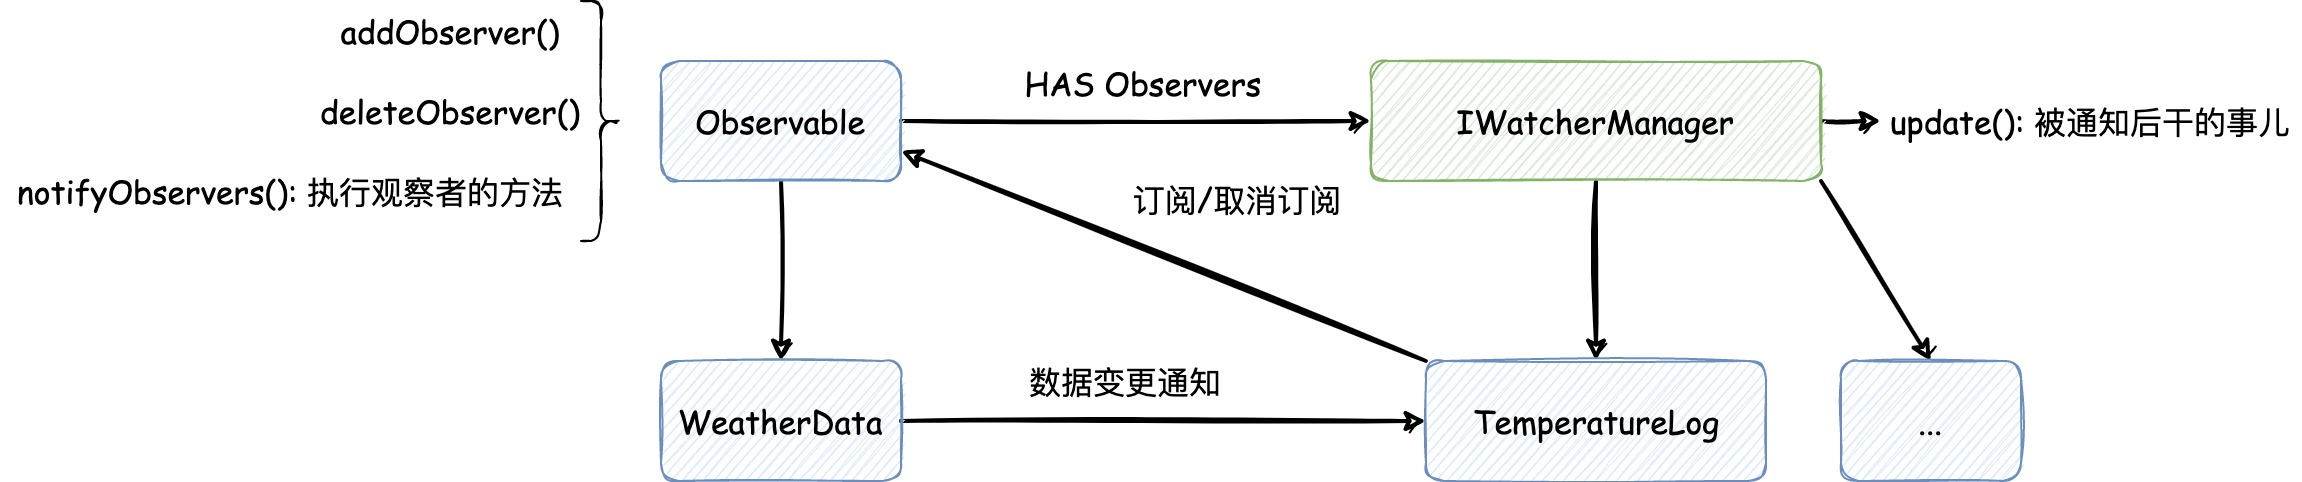
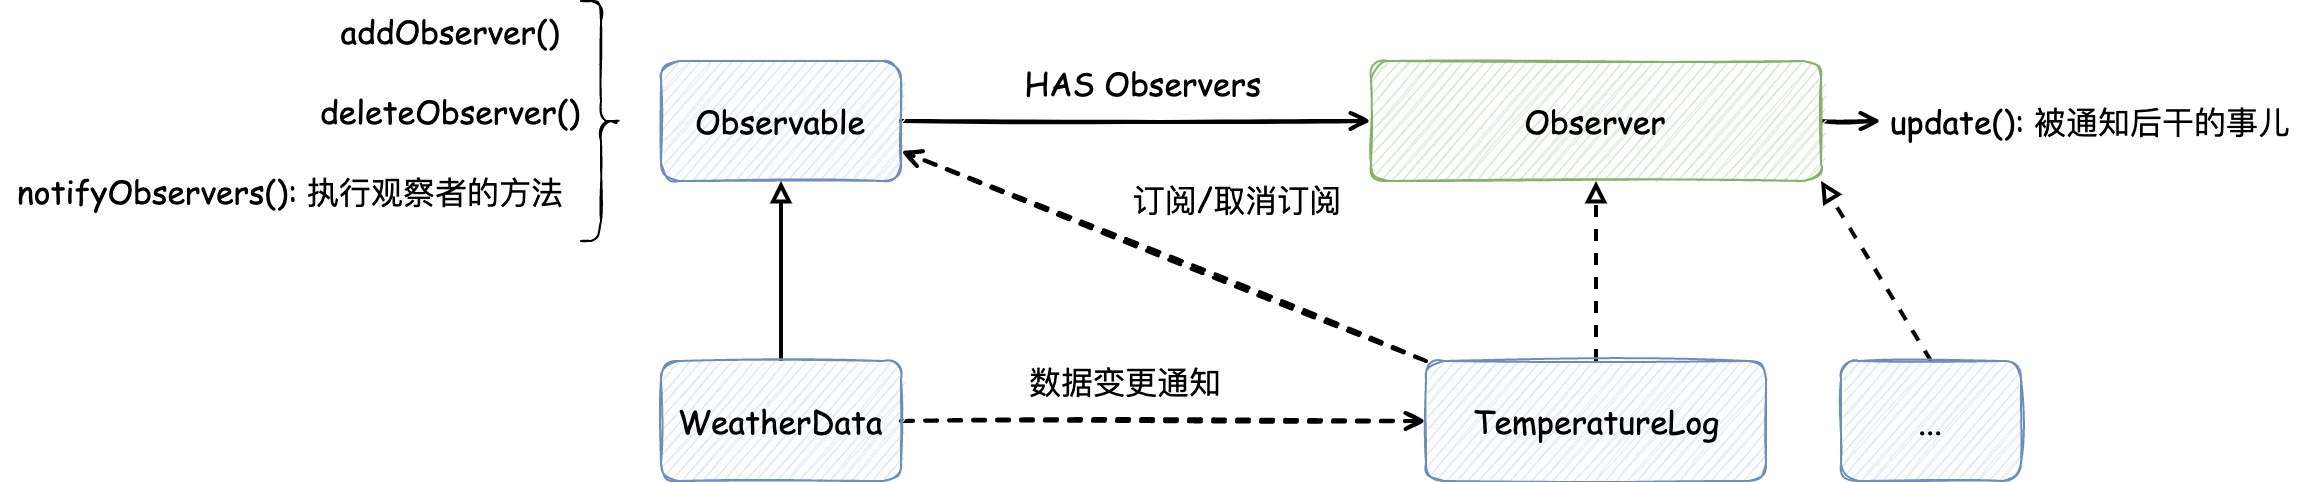
优化观察者模式图片

diff --git a/src/main/java/com/fy/patterns/design/chapter3/TemperatureLog.java b/src/main/java/com/fy/patterns/design/chapter3/TemperatureLog.java
@@ -20,7 +20,7 @@ public class TemperatureLog implements Observer {
      */
     public TemperatureLog(Observable observable) {
         this.observable = observable;
-        observable.addObserver(this);
+        this.observable.addObserver(this);
     }
 
     /**
@@ -30,6 +30,7 @@ public class TemperatureLog implements Observer {
         observable.deleteObserver(this);
     }
 
+    @Override
     public void update(Observable o, Object arg) {
         if (arg instanceof Integer) {
             Integer temperature = (Integer) arg;

diff --git a/README.md b/README.md
@@ -32,14 +32,13 @@
 > 主题和观察者对象是**松耦合**的，因为主题唯一依赖的东西是一个实现了 `Observer` 接口的观察者对象列表，在运行时可以用新的观察者替换旧的观察者，
 > 主题的代码不需要改变
 
-- 观察者模式代码示例在 chapter3 包下，通过JDK内置的 `Observable` 和 `Observer` 来实现。
+- 观察者模式代码示例在 chapter3 包下，通过JDK内置的 `Observable` 和 `Observer` 来实现，类图如下
+  ![](images/观察者模式1.jpg)
 
 但是JDK提供的现成的观察者组件也有它自己的问题：
-1. `Observable`是一个**类**，这也就导致了必须创建一个类来实现的， 而且Java是单继承的，所以要想再继承其他类的功能是行不通的
+1. `Observable`是一个**类**，这也就导致了必须创建一个类来继承， 而且Java是单继承的，所以要想再继承其他类的功能是行不通的
 2. `Observable`中`setChanged()`的方法是被`protected`修饰的，这也就导致了，我们没有办法通过**组合**Observable实例到我们自己的对象中来实现
 想要的功能。这也违反了**多用组合，少用继承**的原则
-
-![](images/观察者模式1.jpg)
 
 ### 3.1 zookeeper中watch机制使用的观察者模式
 如下图所示，客户端在调用`getData()`方法的时候会对指定的路径添加观察者，保存在 **"主题"** 中，path发生改变后通知这些观察者
